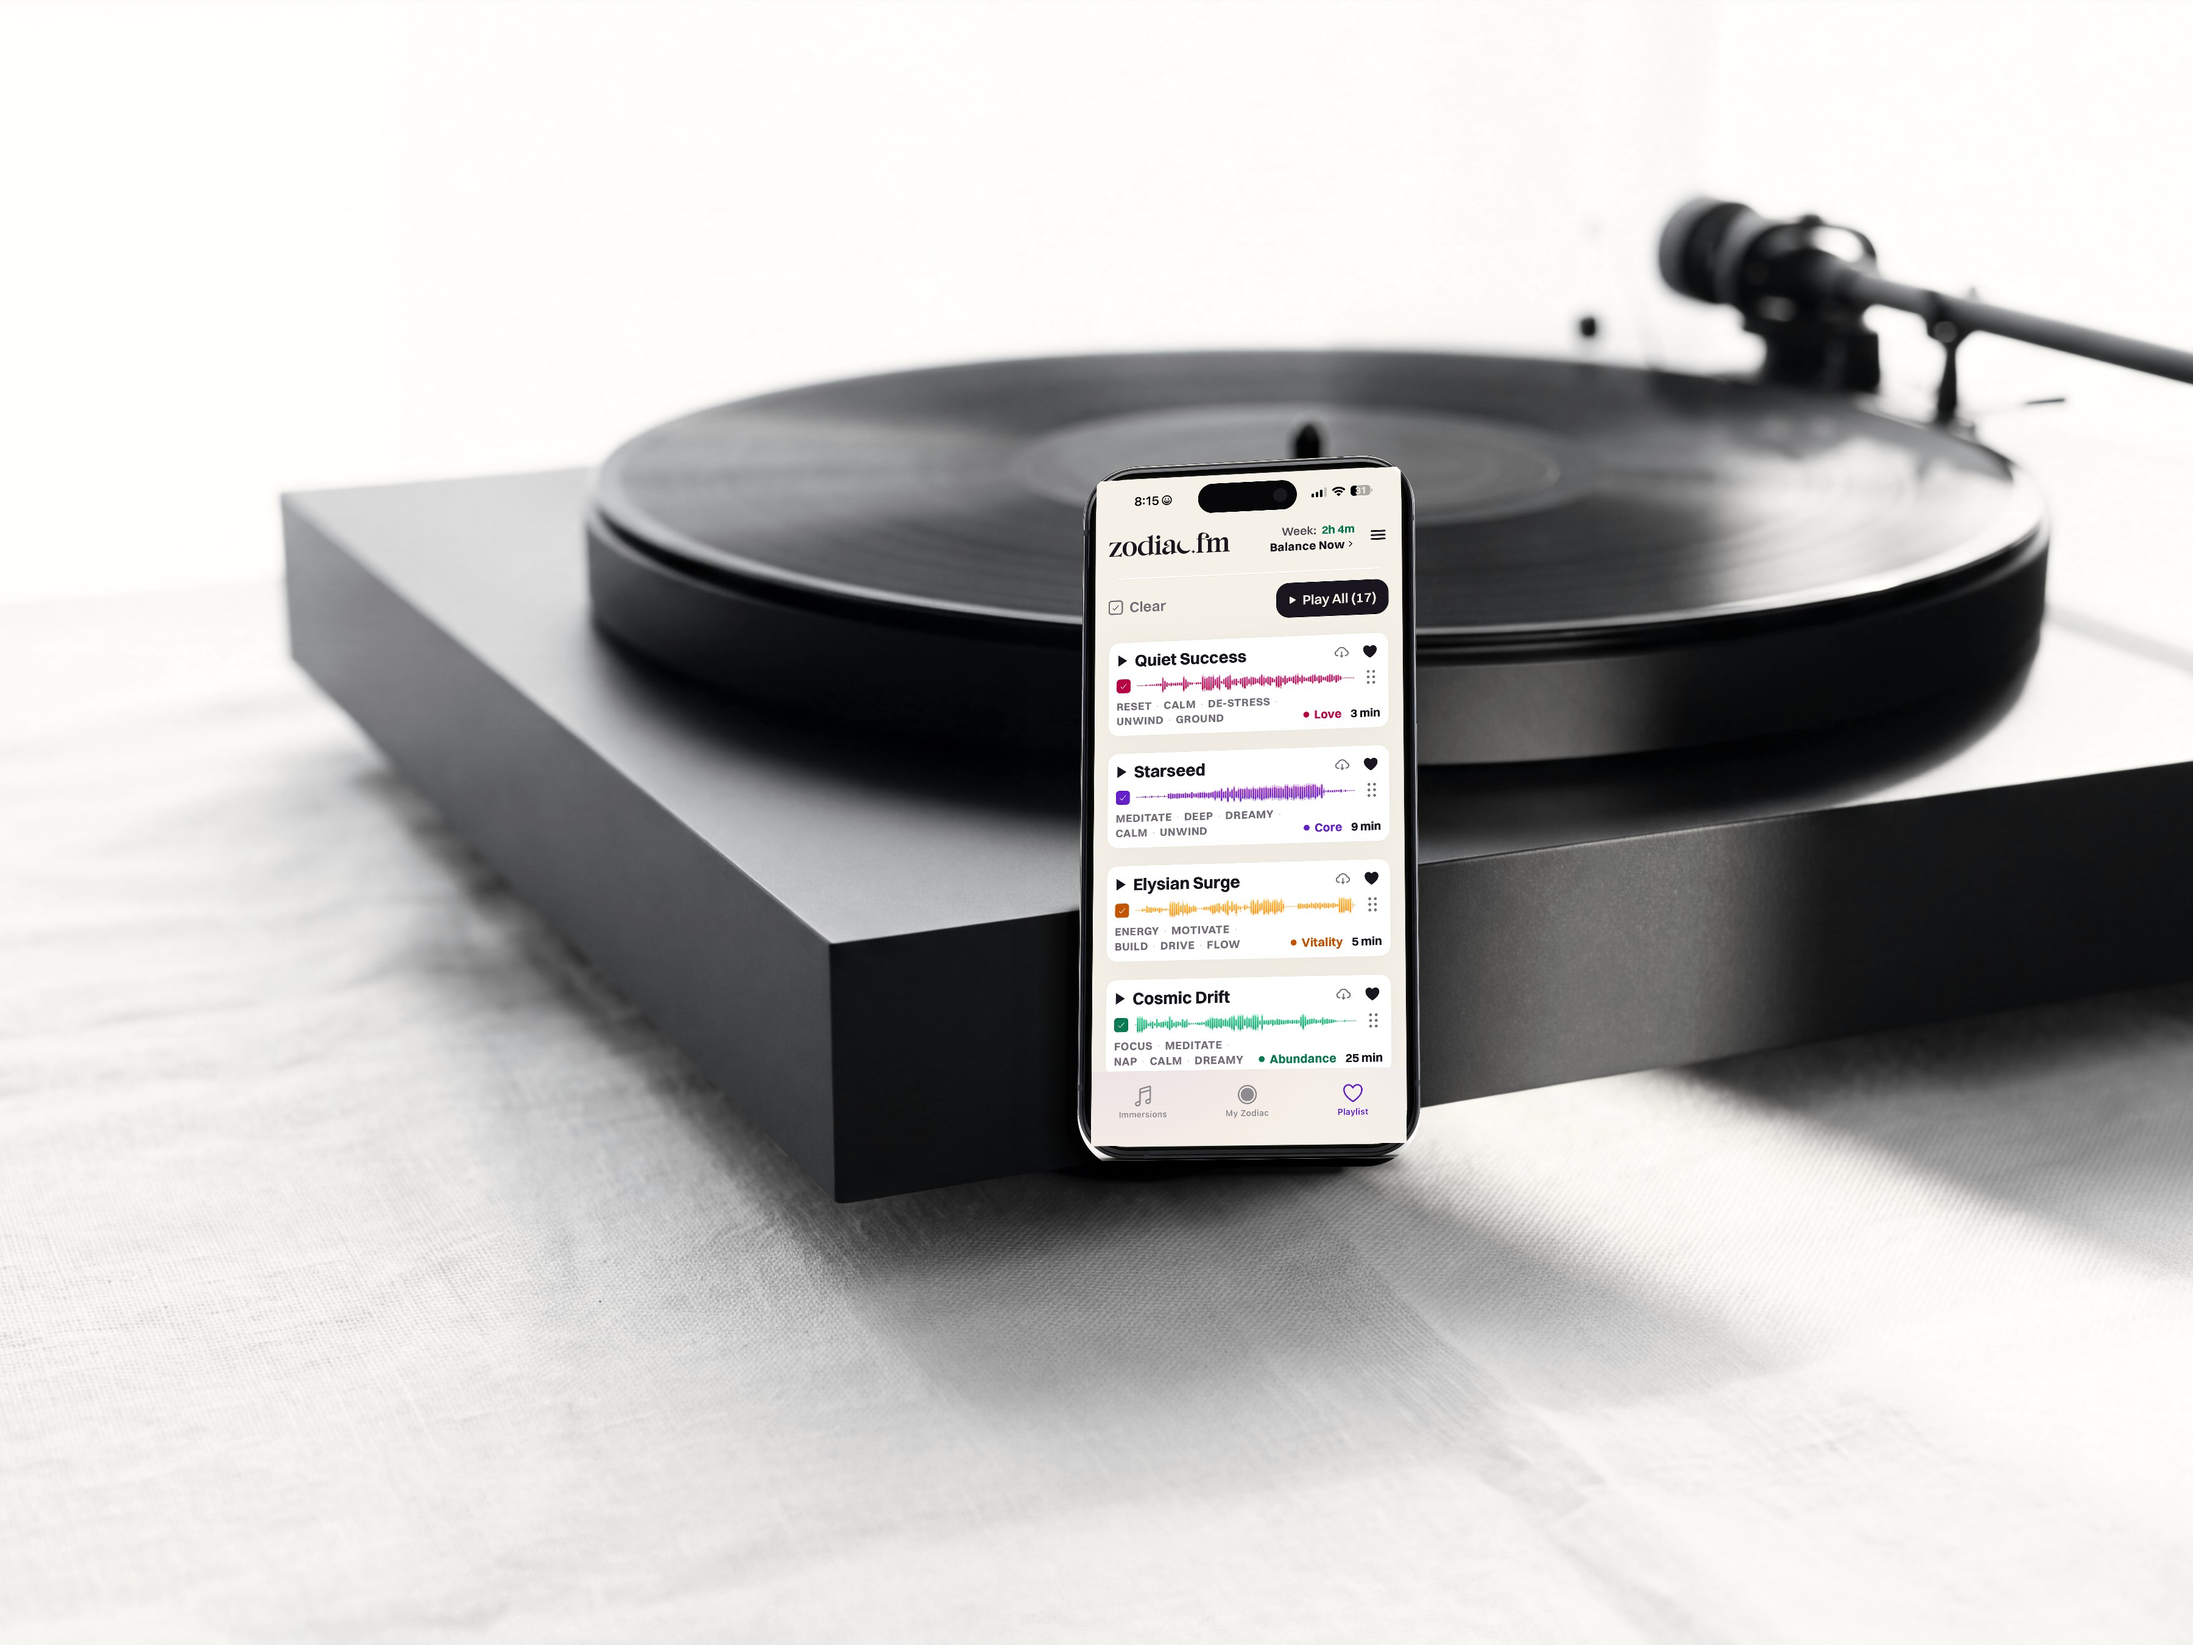
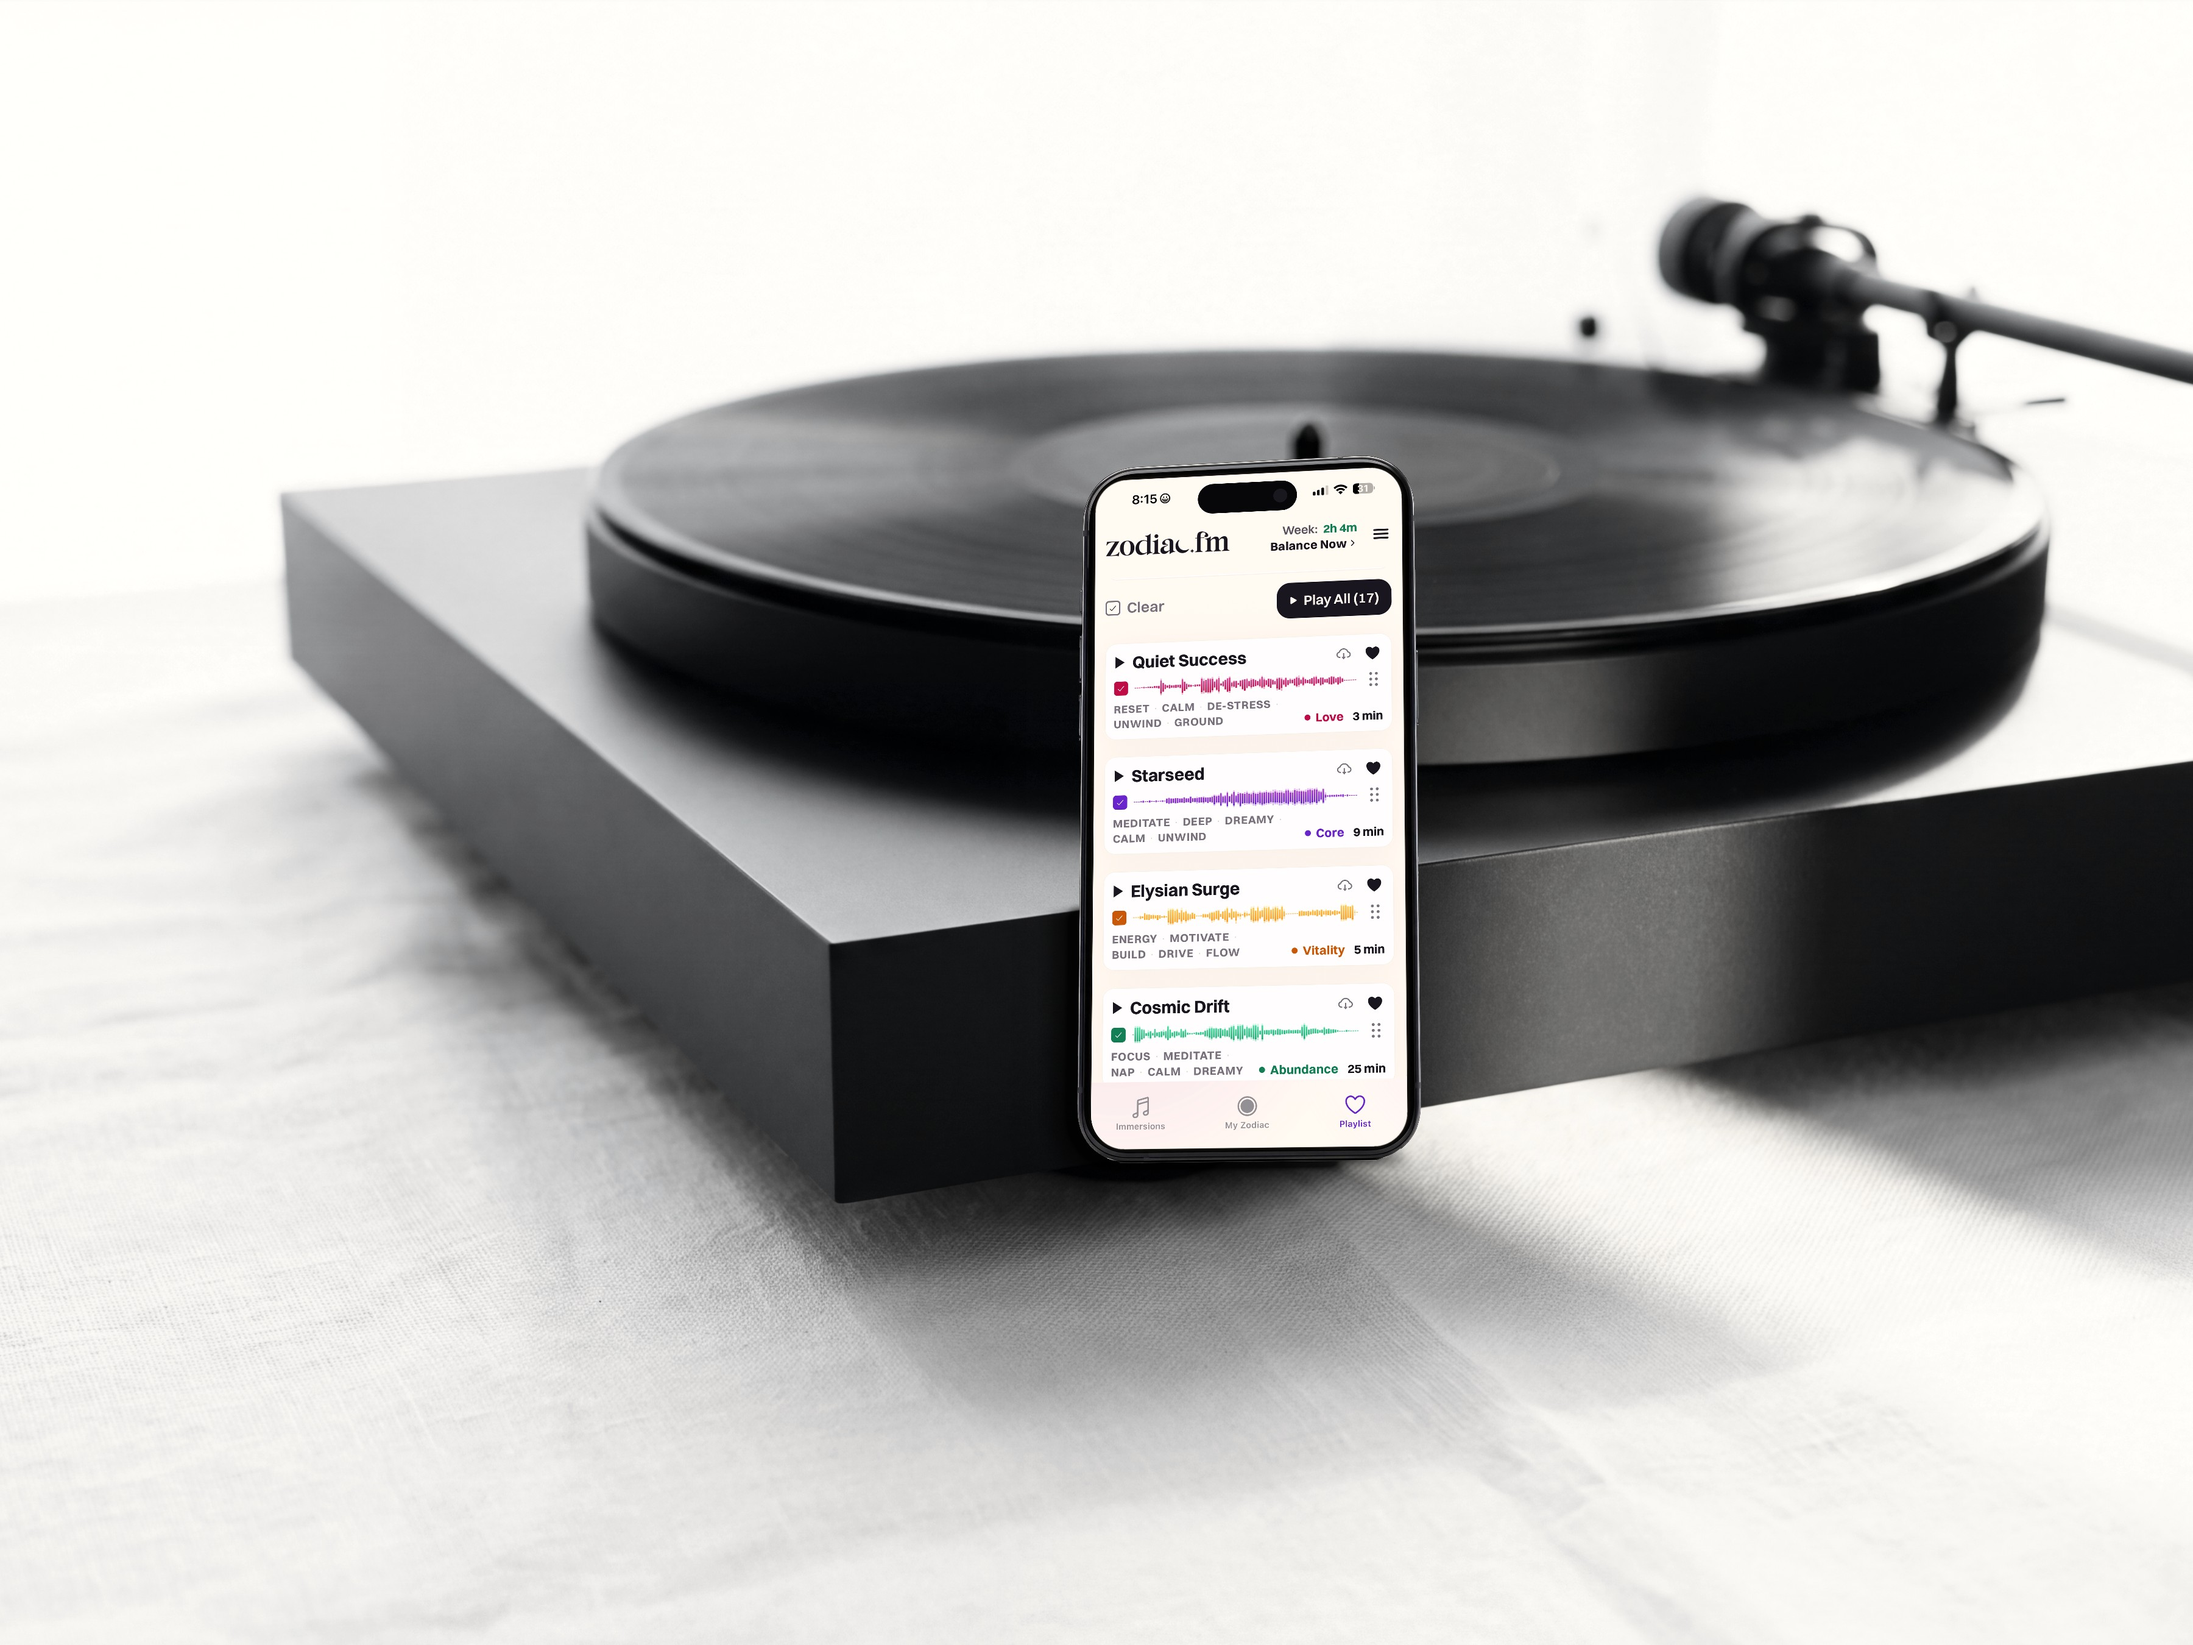
The Phone, Frame 04 Build (P-208): the whole device to Frame 04 quality; P-178 retired; P-207 rebuilt
Michael 2026-09-06 (fd-073): "P-178 and P-207 are a fucking joke. look at the
quality of iphone 04 (combine Frequencies) on the style guide library. that is
how you do a fucking phone. Do a whole phone to that quality."

- P-208 The Phone, Frame 04 Build: the 1920x3248 photographed body P-162, whole,
  with iPhone Real Screen 01 resized UNDER a frame layer whose screen opening is
  cut at rx 118 (the bezel's own corners mask it), island redrawn as hardware:
  render-frame-04-combine-current-v2.js constants verbatim, uncropped. Screen
  MAD 0 against source, 0 screen pixels outside the opening, real bottom corners.
  Full plate + RGBA cutout under one number; the registered device for every page.
- P-178 retired: the same body downscaled to 1251 wide with the screenshot pasted
  on top as a square-cornered rectangle.
- P-207 rebuilt from the cutout at full resolution, same geometry, no screen paste.
- Library 8-7 (8-6 snapshotted). page-constants hero_device_plate -> P-208.

Changed region(s): [[0.4978, 0.3733, 0.6533, 0.7156], [0.5911, 0.28, 0.6533, 0.3733], [0.4978, 0.28, 0.56, 0.3733]]

diff --git a/site/styleguide-8-6-library.html b/site/styleguide-8-6-library.html
@@ -4,15 +4,14 @@
   This file IS the current style guide library. Edit THIS file — never fork a numbered copy
   and never hand anyone a versioned URL for this surface.
   ZFM-CURRENT: /site/styleguide-library
-  ZFM-INTERNAL-VERSION: 8-7
+  ZFM-INTERNAL-VERSION: 8-6
   To bump the version: copy this file to site/styleguide-<n>-library.html
   as a frozen snapshot FIRST, then edit this file and raise ZFM-INTERNAL-VERSION.
   Rule: Michael, 2026-08-26 — "always just have the current one be the main url string".
   Applies to reference surfaces only (libraries, style guides, directories),
   never to landers, sites, or design rounds, which stay versioned.
 
-  8-7 (2026-09-06, fd-073) registers The Phone, Frame 04 Build, as the device for every page and
-  retires P-178; P-207 rebuilt from it. 8-6 (2026-09-06, fd-070, fd-071) files P-207 Phone Playlist, Real Screen 01 into CHIP (the
+  8-6 (2026-09-06, fd-070, fd-071) files P-207 Phone Playlist, Real Screen 01 into CHIP (the
   photographed P-178 body carrying iPhone Real Screen 01 on a slim turntable in high daylight)
   and P-206 Emerald In The Earcup into SUN (the singer, the lamp on the headphones, the mug
   silver); retires P-184 (P-160's cut scene re-dressed with a warped screenshot, never filed here)
@@ -721,13 +720,13 @@
   <h2>CHIP <span class="bandcount"><span class="num">2</span> bank frames &middot; <span class="num">1</span> product reference</span></h2>
   <p class="statement" style="margin-top:22px">CHIP = the product&#x27;s own marks carry the color.</p>
     <div class="photogrid">
-    <figure class="photo" id="p-208">
-      <img loading="lazy" src="/site/assets/hero-recast/phone-frame04-build-full.png" alt="The whole iPhone, built the App Store Frame 04 way: the photographed body top to bottom on the white sweep, the live zodiac.fm Playlist of 2026-09-03 under the bezel frame with the true corner radius, the Dynamic Island as hardware">
-      <figcaption><b class="pid">P-208</b><span class="ttl">The Phone &middot; Frame 04 Build</span><span class="recipe"><i>RECIPE</i> THE REGISTERED DEVICE for every page (fd-073, Michael: &ldquo;look at the quality of iphone 04 &hellip; that is how you do a fucking phone. Do a whole phone to that quality&rdquo;). The 1920&times;3248 photographed body P-162, whole, with iPhone &middot; Real Screen 01 resized under a frame layer whose screen opening is cut at rx 118 so the bezel&#x27;s own corners mask it, island redrawn as hardware: Frame 04&#x27;s construction and constants, verbatim, uncropped. Screen MAD against source 0; 0 screen pixels outside the opening; corner radius 191 px; real bottom corners. The RGBA cutout `phone-frame04-build-cutout.png` (same number) is what scenes composite; the body never goes below 1920 wide until the final scene resize. Replaces P-178 (retired 2026-09-06: the same body downscaled with the screenshot pasted on top with square corners).</span></figcaption>
+    <figure class="photo" id="p-178">
+      <img loading="lazy" src="/site/assets/hero-recast/hero-phone-real-screen-01.jpg" alt="The dark iPhone standing alone on the soft white studio sweep, its screen carrying the live zodiac.fm Playlist of 2026-09-03: Play All (17) and the Quiet Success, Starseed, Elysian Surge and Cosmic Drift track cards in rose, violet, amber and emerald">
+      <figcaption><b class="pid">P-178</b><span class="ttl">The Hero Phone &middot; Real Screen 01</span><span class="recipe"><i>RECIPE</i> the clean photographed phone plate carrying iPhone &middot; Real Screen 01 unmodified &mdash; Play All (17), true track order, true waveforms, proportions preserved exactly. The ONLY phone on any page. Replaced P-164 one-for-one (retired 2026-09-04: P-164 carried the superseded 2026-08 screen); pages built on the old plate keep it.</span></figcaption>
     </figure>
     <figure class="photo" id="p-207">
       <img loading="lazy" src="/site/assets/home-t11/phone-playlist-real-screen-01.jpg" alt="A real iPhone leaning against the slim plinth of a black turntable on white linen in high daylight, its screen the live zodiac.fm Playlist of 2026-09-03 with four waveforms in rose, violet, amber and green">
-      <figcaption><b class="pid">P-207</b><span class="ttl">Phone Playlist &middot; Real Screen 01</span><span class="recipe"><i>RECIPE</i> the photographed P-178 body carrying iPhone &middot; Real Screen 01 re-pasted byte-true (screen aspect 0.462, MAD 2.9/255 against the source), leaning 10&deg; on a slim plinth with two contacts and two shadows, on a nano-pro plate neutralised to CHIP law (chroma outside the screen 1.35); record diameter two phone heights; linen L 93. The mobile plate <span class="num">1500&times;1875</span> is the same frame cropped to the phone. Replaces P-184 (retired 2026-09-06, fd-070: P-160&#x27;s cut scene with a warped screenshot on a painted phone). Built by the P-177 method; no model drew the phone or the screen. REBUILT 2026-09-06 (fd-073) from The Phone &middot; Frame 04 Build at its full 1920 px: no screen paste, corners the bezel&#x27;s own, verified against the plate (MAD 2.7/255). The earlier cuts (P-178 body, then a square screenshot over the bezel) are dead.</span></figcaption>
+      <figcaption><b class="pid">P-207</b><span class="ttl">Phone Playlist &middot; Real Screen 01</span><span class="recipe"><i>RECIPE</i> the photographed P-178 body carrying iPhone &middot; Real Screen 01 re-pasted byte-true (screen aspect 0.462, MAD 2.9/255 against the source), leaning 10&deg; on a slim plinth with two contacts and two shadows, on a nano-pro plate neutralised to CHIP law (chroma outside the screen 1.35); record diameter two phone heights; linen L 93. The mobile plate <span class="num">1500&times;1875</span> is the same frame cropped to the phone. Replaces P-184 (retired 2026-09-06, fd-070: P-160&#x27;s cut scene with a warped screenshot on a painted phone). Built by the P-177 method; no model drew the phone or the screen. CORRECTED 2026-09-06 (fd-072, Michael: &ldquo;the corners are over the phone&rdquo;): the first cut re-pasted a square screenshot over the whole device and its corners ran past the bezel; the frame now carries the whole P-178 plate as one layer, alpha fitted to the plate&#x27;s real silhouette (corner radius 196 px at 1251 wide), verified against P-178 (MAD 3.0/255).</span></figcaption>
     </figure>
     <figure class="photo" id="chip-kickers">
       <img loading="lazy" src="/site/Iris/assets/examples/chip-kickers.jpg" alt="Three testimonial kickers — Coming Home, Flow, Opportunity — each with a small band-coloured waveform chip beside it in rose, amber and emerald">
@@ -926,9 +925,8 @@
     <div class="exrow"><span class="pid">P-124</span> <span class="ttl">Phone Over Sand</span><span class="recipe">out of CHIP — “not real”. <span class="verdict">CUT FROM THE BANK</span></span></div>
     <div class="exrow"><span class="pid">P-160</span> <span class="ttl">Playlist In The Sun</span><span class="recipe">out of CHIP — “janky”. <span class="verdict">CUT FROM THE BANK</span></span></div>
 
-    <div class="subhead" style="margin-top:38px">RETIRED BY MICHAEL — 2026-09-06 · <span class="num">3</span> frames</div>
+    <div class="subhead" style="margin-top:38px">RETIRED BY MICHAEL — 2026-09-06 · <span class="num">2</span> frames</div>
     <p class="note" style="margin-top:16px">Two design-room frames that shipped on home-t7 to t10 without ever being filed here. Retired numbers; the frozen rounds keep them, nothing new may carry them.</p>
-    <div class="exrow"><span class="pid">P-178</span> <span class="ttl">The Hero Phone &middot; Real Screen 01</span><span class="recipe">&ldquo;P-178 and P-207 are a fucking joke&rdquo; &mdash; the P-162 body downscaled to 1251 wide with the screenshot pasted ON TOP as a square-cornered rectangle over the bezel. Replaced by P-208, the whole phone at Frame 04&#x27;s construction. <span class="verdict">RETIRED</span></span></div>
     <div class="exrow"><span class="pid">P-184</span> <span class="ttl">Phone Playlist</span><span class="recipe">P-160&#x27;s cut scene re-dressed with iPhone Real Screen 01 warped onto a painted phone — the hack job fd-036 banned. “do not ever put something so off in the library.” Replaced by P-207. <span class="verdict">RETIRED</span></span></div>
     <div class="exrow"><span class="pid">P-182</span> <span class="ttl">Step3</span><span class="recipe">“Great picture but highlight a coffee cup makes no sense and can&#x27;t really see the green.” The photograph lives on as P-206 with the lamp on the headphones. <span class="verdict">RETIRED</span></span></div>
 
